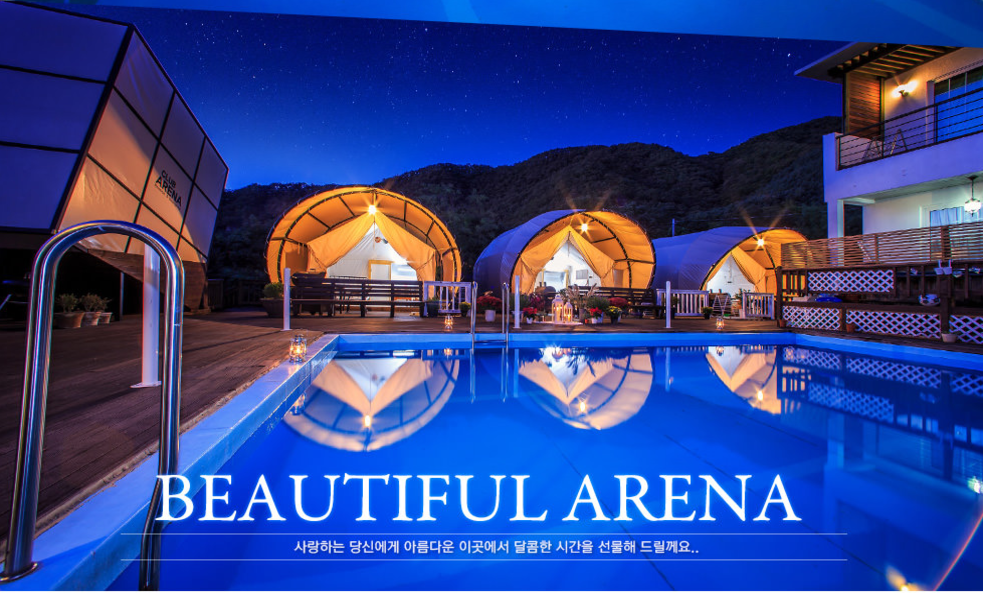
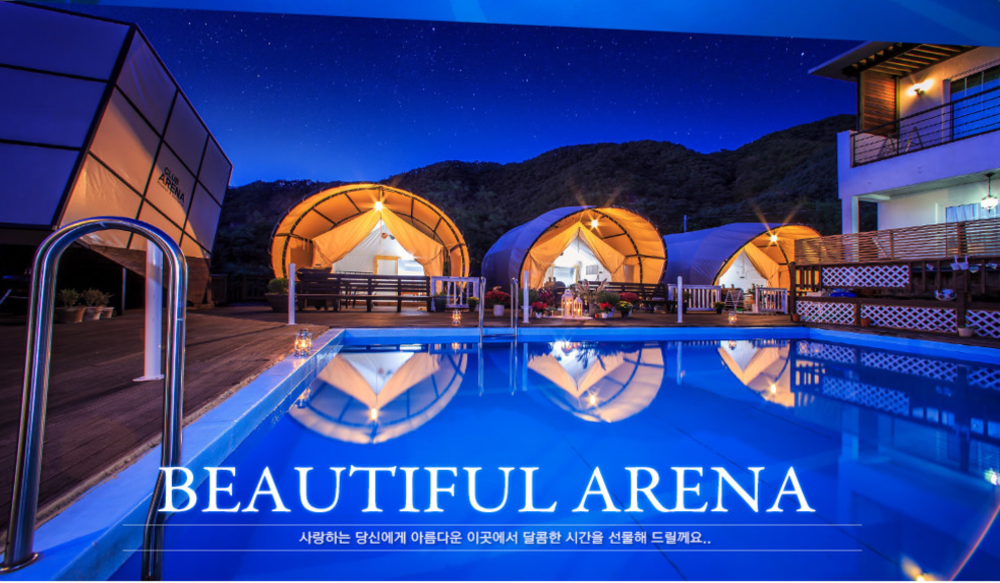
Be completed landscape ver2

diff --git a/Project/LandScape.html b/Project/LandScape.html
@@ -6,11 +6,13 @@
     <title>index</title>
     <link href="css/header.css" rel="stylesheet" type="text/css">
     <link href="css/base_body.css" rel="stylesheet" type="text/css">
+    <link href="css/ladnscape_body.css" rel="stylesheet" type="text/css">
     <link href="css/footer.css" rel="stylesheet" type="text/css">
 </head>
 
 <body>
     <div id=header>
+            <div id=header_wrap>
         <div id=top>
         </div>
         <div id=logo>
@@ -25,6 +27,7 @@
                 </tr>
             </table>
         </div>
+            </div>
         <div id=menu>
             <ul>
                 <li><a href="LandScape.html">LANDSCAPE</a></li>
@@ -42,34 +45,29 @@
     </div>
     <div id=body_wrap>
         <div id=body_header>
-            <img src="img/img_edit/Landscape_blank.png">
+            <img src="img/img_edit/landscape_blank.png">
         </div>
-        <div id=body_img>
-            <img src="img/Main3.png">
-            <img src="img/Main1.png">
-            <img src="img/Main2.png">
+        <div id=body_img>            
+            <img src="img/img_edit/landscape01.png">
+            <img src="img/img_edit/landscape02.png">            
+            <img src="img/img_edit/landscape03.png">
             <img src="img/img_edit/Landscape_blank.png">
-            <img src="img/img_edit/Landscape1.png">
+            <img src="img/img_edit/landscape04.png">
             <img src="img/img_edit/Landscape_blank.png">
-            <img src="img/img_edit/Landscape2.png">
+            <img src="img/img_edit/landscape05.png">
             <img src="img/img_edit/Landscape_blank.png">
-            <img src="img/img_edit/Landscape3.png">
+            <img src="img/img_edit/landscape06.png">
             <img src="img/img_edit/Landscape_blank.png">
-            <img src="img/img_edit/Landscape4.png">
+            <img src="img/img_edit/landscape07.png">
             <img src="img/img_edit/Landscape_blank.png">
-            <img src="img/img_edit/Landscape5.png">
+            <img src="img/img_edit/landscape08.png">
             <img src="img/img_edit/Landscape_blank.png">
-            <img src="img/img_edit/Landscape6.png">
+            <img src="img/img_edit/landscape09.png">
             <img src="img/img_edit/Landscape_blank.png">
-            <img src="img/img_edit/Landscape7.png">
+            <img src="img/img_edit/landscape10.png">
             <img src="img/img_edit/Landscape_blank.png">
-            <img src="img/img_edit/Landscape8.png">
-            <img src="img/img_edit/Landscape_blank.png">
-            <img src="img/img_edit/Landscape9.png">
-            <img src="img/img_edit/Landscape_blank.png">
-            <img src="img/img_edit/Landscape10.png">
-            <img src="img/img_edit/Landscape_blank.png">
-            <img src="img/img_edit/Landscape11.png">
+            <img src="img/img_edit/landscape11.png">
+            <img src="img/img_edit/landscape12.png">
         </div>
     </div>
     <div id=footer_wrap>

diff --git a/Project/css/Header.css b/Project/css/Header.css
@@ -1,24 +1,34 @@
 body{
     margin: 0px;
+    background-color: green;
 }
 #header{
     margin:0px;
     width: 100%;
     height: 230px;
+    margin: 0px auto;
     position: fixed;
     z-index: 1;
 }
+#header_wrap{
+    width: 1000px;
+    margin: 0px auto;
+    background-color: #99c2e6;
+}
 #top{
-    background-color:#221100;
-    width: 100%;
+    /*background-color:#221100;*/
+    background-color: #99c2e6;
+    width: 90%;
     height: 30px;
+    margin: 0px auto;
 }
 #logo{
-    width: 100%;
+    width: 90%;
     height: 150px;
     text-align: center;
     /*background-image: url(http://einet.galtime.kr/super/client/page/none);*/
     background-color: #99c2e6;
+    margin: 0px auto;
 }
 #logo table{
     width: 100%;
@@ -34,14 +44,16 @@ body{
     height: 230px;
 }
 #menu ul{
-    width: 1200px;
+    width: 970px;
     margin: 10px auto;
-    padding: 0px;
+    padding-left: 0px;
+    padding-right: 30px;
+    text-align: center;
 }
 #menu li{
     list-style: none;
     display: inline-block;
-    margin: 2px 0px 0px 55px;
+    margin: 2px 0px 0px 30px;
     font-size: 16px;
 }
 #menu a{

diff --git a/Project/css/base_body.css b/Project/css/base_body.css
@@ -1,17 +1,20 @@
 #body_wrap{
-   width: 100%;
-   text-align: center;
+   width: 1000px;
+   margin: 0px auto;
+   background-color: white;
 }
 #body_header{
-   width: 100%;
-   margin: 10px auto;
+   width: 900px;
+   margin: 0px auto;
+   text-align: center;
 }
 #body_blank{
-   width: 1200px;
+   width: 1000px;
    height: 30px;
    margin: 0px auto;
 }
 #body_img{
-   width: 1200px;
+   width: 900px;
    margin: 0px auto;
+   text-align: center;
 }

diff --git a/Project/community.html b/Project/community.html
@@ -11,6 +11,7 @@
 
 <body>
     <div id=header>
+            <div id=header_wrap>
         <div id=top>
         </div>
         <div id=logo>
@@ -25,6 +26,7 @@
                 </tr>
             </table>
         </div>
+            </div>
         <div id=menu>
             <ul>
                 <li><a href="LandScape.html">LANDSCAPE</a></li>

diff --git a/Project/facilities.html b/Project/facilities.html
@@ -11,6 +11,7 @@
 
 <body>
     <div id=header>
+            <div id=header_wrap>
         <div id=top>
         </div>
         <div id=logo>
@@ -25,6 +26,7 @@
                 </tr>
             </table>
         </div>
+            </div>
         <div id=menu>
             <ul>
                 <li><a href="LandScape.html">LANDSCAPE</a></li>

diff --git a/Project/reservation.html b/Project/reservation.html
@@ -11,6 +11,7 @@
 
 <body>
     <div id=header>
+            <div id=header_wrap>
         <div id=top>
         </div>
         <div id=logo>
@@ -25,6 +26,7 @@
                 </tr>
             </table>
         </div>
+            </div>
         <div id=menu>
             <ul>
                 <li><a href="LandScape.html">LANDSCAPE</a></li>

diff --git a/Project/rooms.html b/Project/rooms.html
@@ -11,6 +11,7 @@
 
 <body>
     <div id=header>
+            <div id=header_wrap>
         <div id=top>
         </div>
         <div id=logo>
@@ -25,6 +26,7 @@
                 </tr>
             </table>
         </div>
+            </div>
         <div id=menu>
             <ul>
                 <li><a href="LandScape.html">LANDSCAPE</a></li>

diff --git a/Project/service.html b/Project/service.html
@@ -11,6 +11,7 @@
 
 <body>
     <div id=header>
+            <div id=header_wrap>
         <div id=top>
         </div>
         <div id=logo>
@@ -25,6 +26,7 @@
                 </tr>
             </table>
         </div>
+            </div>
         <div id=menu>
             <ul>
                 <li><a href="LandScape.html">LANDSCAPE</a></li>

diff --git a/Project/traffic.html b/Project/traffic.html
@@ -11,6 +11,7 @@
 
 <body>
     <div id=header>
+            <div id=header_wrap>
         <div id=top>
         </div>
         <div id=logo>
@@ -25,6 +26,7 @@
                 </tr>
             </table>
         </div>
+            </div>
         <div id=menu>
             <ul>
                 <li><a href="LandScape.html">LANDSCAPE</a></li>

diff --git a/Project/travle.html b/Project/travle.html
@@ -11,6 +11,7 @@
 
 <body>
     <div id=header>
+            <div id=header_wrap>
         <div id=top>
         </div>
         <div id=logo>
@@ -25,6 +26,7 @@
                 </tr>
             </table>
         </div>
+            </div>
         <div id=menu>
             <ul>
                 <li><a href="LandScape.html">LANDSCAPE</a></li>

diff --git a/Project/index.html b/Project/index.html
@@ -16,6 +16,7 @@
 
 <body>
     <div id=header>
+        <div id=header_wrap>
         <div id=top>
         </div>
         <div id=logo>
@@ -30,6 +31,7 @@
                 </tr>
             </table>
         </div>
+    </div>
         <div id=menu>
             <ul>
                 <li><a href="LandScape.html">LANDSCAPE</a></li>

diff --git a/Project/css/basic_slider.css b/Project/css/basic_slider.css
@@ -19,8 +19,8 @@
   float: left;
   margin: 0;
   padding: 0;
-  width: 983px;
-  height: 593px;
+  width: 1000px;
+  height: 583px;
   background: #ccc;
   text-align: center;
   line-height: 300px;  
